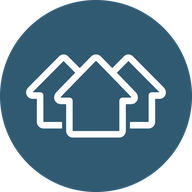
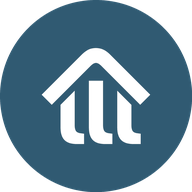
Refresh brand assets to the finalised Land Lease Lifestyle pack
Replaces the working brand assets with the finalised pack. Same lll-house
mark from the 2023 brand work, repainted in LLL Blue (#305A72) with the
wordmark in Inter Bold and "LIFE" updated to "LIFESTYLE".

- Header/footer marks (public/logo.png, logo-light.png)
- Favicon set, apple-touch-icon, android-chrome icons in public/
- App Router convention icons in src/app/ (favicon, icon, apple-icon, og)
- .github/logo.png horizontal lockup for the README
- README gets the centred lockup at the top

site.webmanifest and layout themeColor already match the pack
(#305a72), so no metadata changes needed.

Repo avatar (logos/04_circle_blue.png) and Settings -> General social
preview (social/social-preview.png) still need a manual upload via the
GitHub UI.

diff --git a/README.md b/README.md
@@ -1,3 +1,7 @@
+<p align="center">
+  <img src=".github/logo.png" alt="Land Lease Lifestyle" width="380">
+</p>
+
 # Australian Land Lease Directory
 
 A modern, SEO-first comparison and directory platform for Australia's land lease
